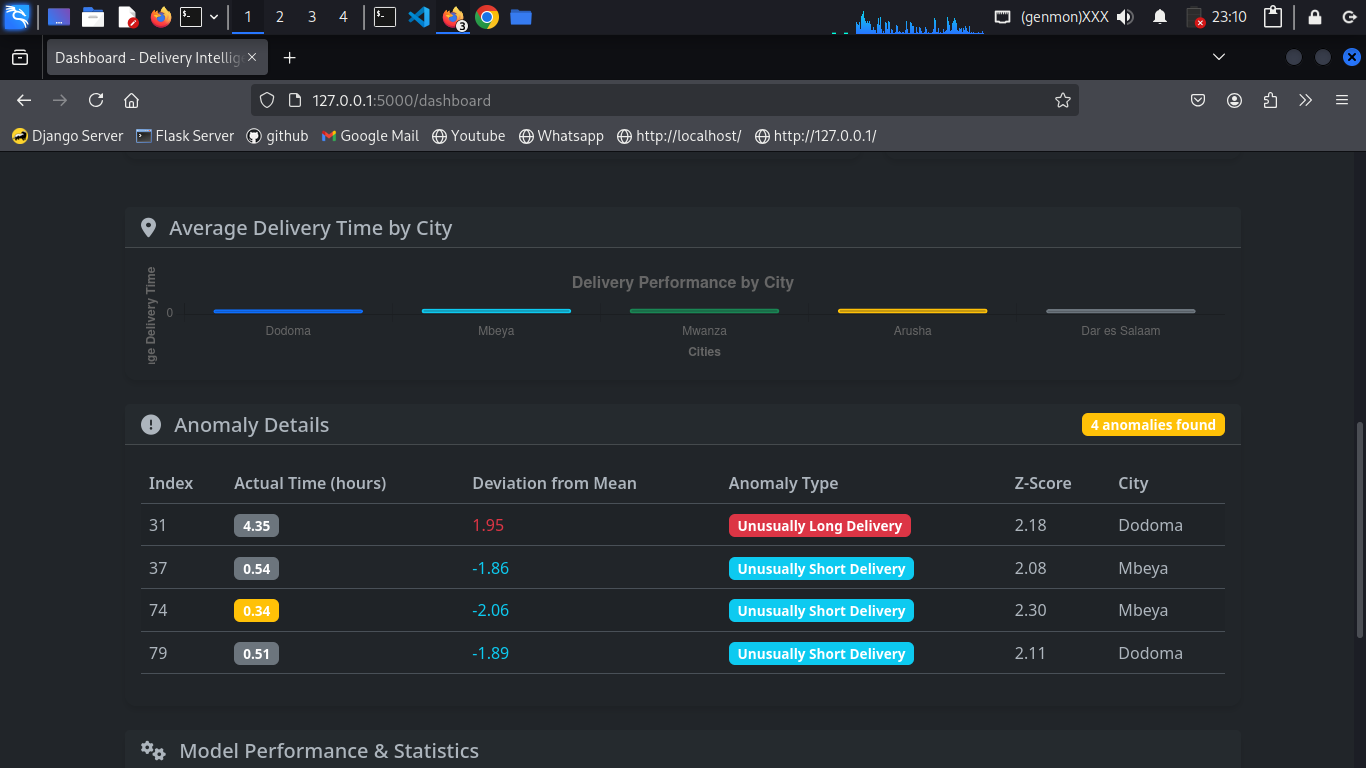
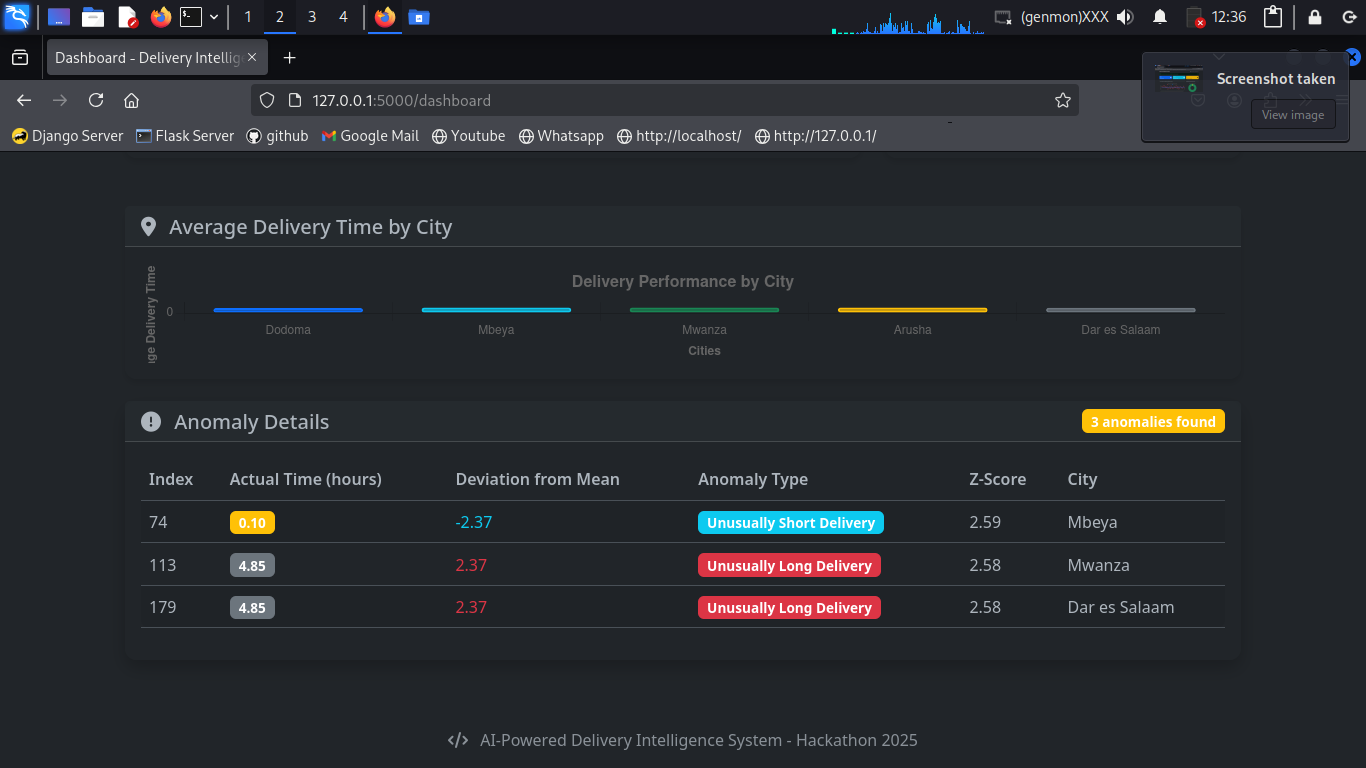
Init Commit

diff --git a/src/templates/dashboard.html b/src/templates/dashboard.html
@@ -5,7 +5,7 @@
 {% block content %}
 <!-- Statistics Cards -->
 <div class="row mb-4">
-    <div class="col-md-3 mb-3">
+    <div class="col-md-4 mb-3">
         <div class="card bg-primary text-white">
             <div class="card-body">
                 <div class="d-flex justify-content-between">
@@ -21,7 +21,7 @@
         </div>
     </div>
     
-    <div class="col-md-3 mb-3">
+    <div class="col-md-4 mb-3">
         <div class="card bg-info text-white">
             <div class="card-body">
                 <div class="d-flex justify-content-between">
@@ -37,7 +37,7 @@
         </div>
     </div>
     
-    <div class="col-md-3 mb-3">
+    <div class="col-md-4 mb-3">
         <div class="card bg-warning text-dark">
             <div class="card-body">
                 <div class="d-flex justify-content-between">
@@ -53,6 +53,7 @@
         </div>
     </div>
     
+{#
     <div class="col-md-3 mb-3">
         <div class="card bg-success text-white">
             <div class="card-body">
@@ -64,10 +65,12 @@
                     <div class="align-self-center">
                         <i class="fas fa-bullseye fa-2x"></i>
                     </div>
+                
                 </div>
             </div>
         </div>
     </div>
+#}
 </div>
 
 <!-- Charts Row -->
@@ -184,6 +187,7 @@
 </div>
 {% endif %}
 
+{#
 <!-- Model Performance Metrics -->
 <div class="row mt-4">
     <div class="col-12">
@@ -223,6 +227,7 @@
         </div>
     </div>
 </div>
+#}
 {% endblock %}
 
 {% block scripts %}

diff --git a/src/templates/index.html b/src/templates/index.html
@@ -8,7 +8,7 @@
         <!-- Hero Section -->
         <div class="text-center mb-5">
             <h1 class="display-4 fw-bold mb-3">
-                {# <i class="fas fa-brain text-primary me-3"></i> #}
+                {#<i class="fas fa-brain text-primary me-3"></i>#}
                 AI-Powered Delivery Intelligence
             </h1>
             <p class="lead text-muted mb-4">
